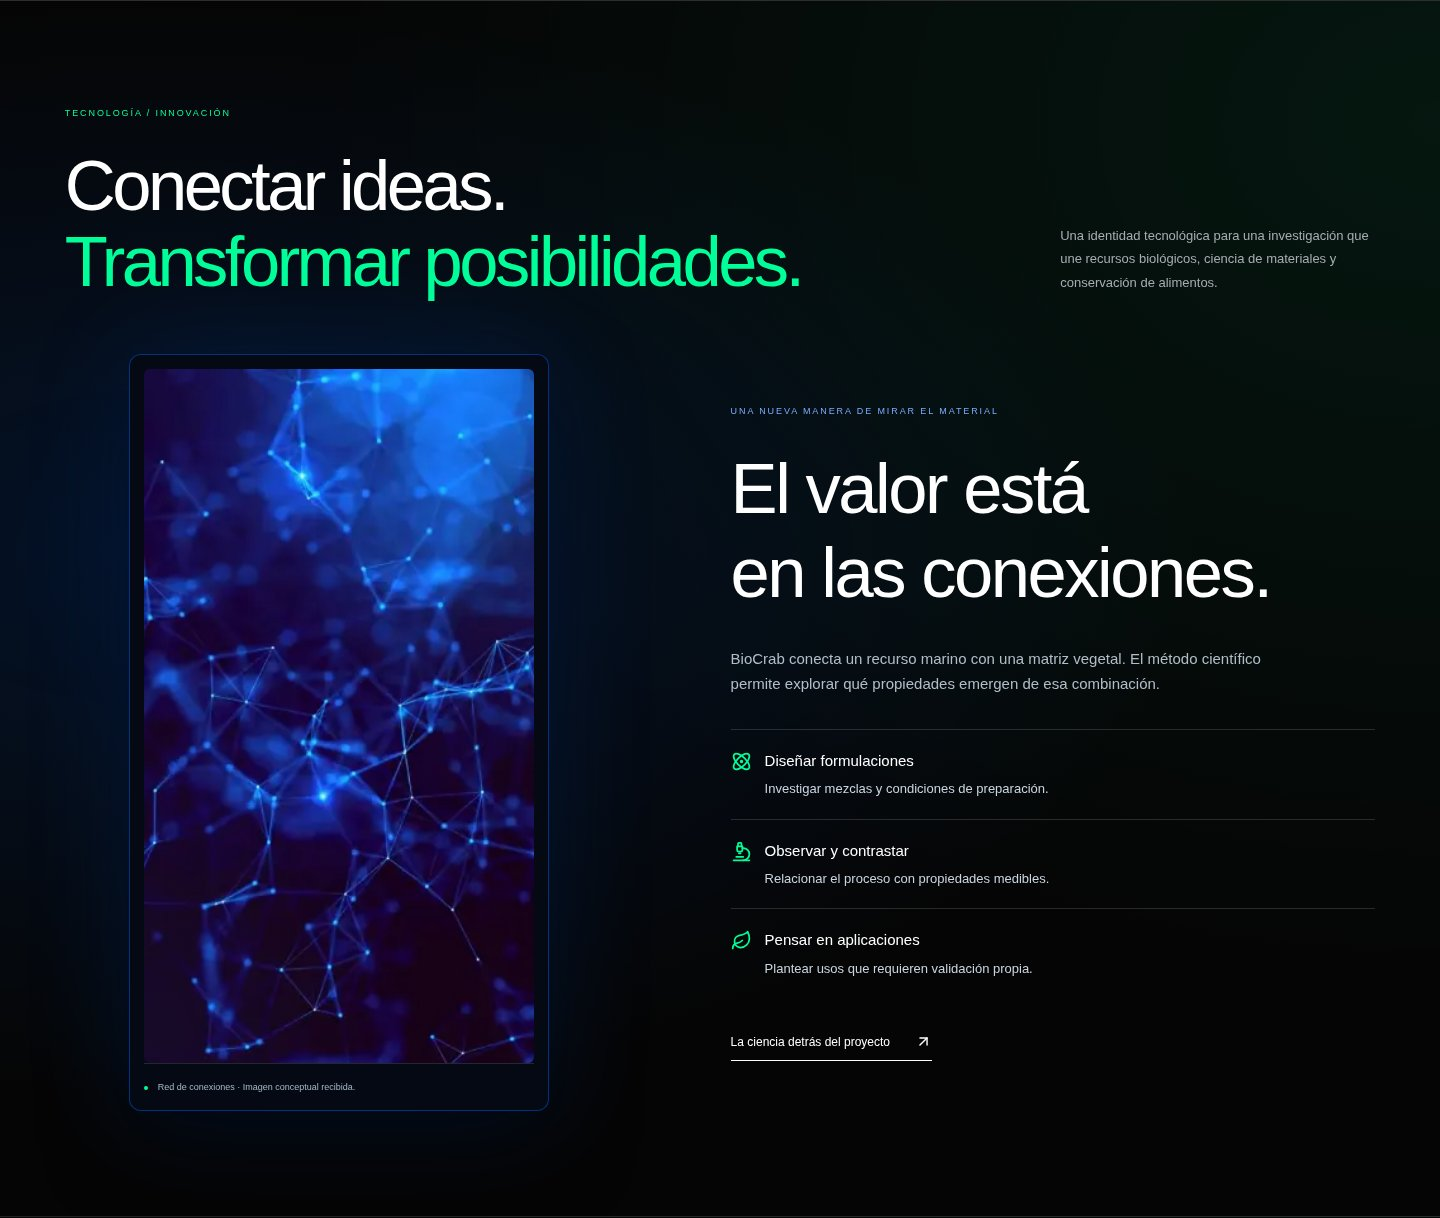
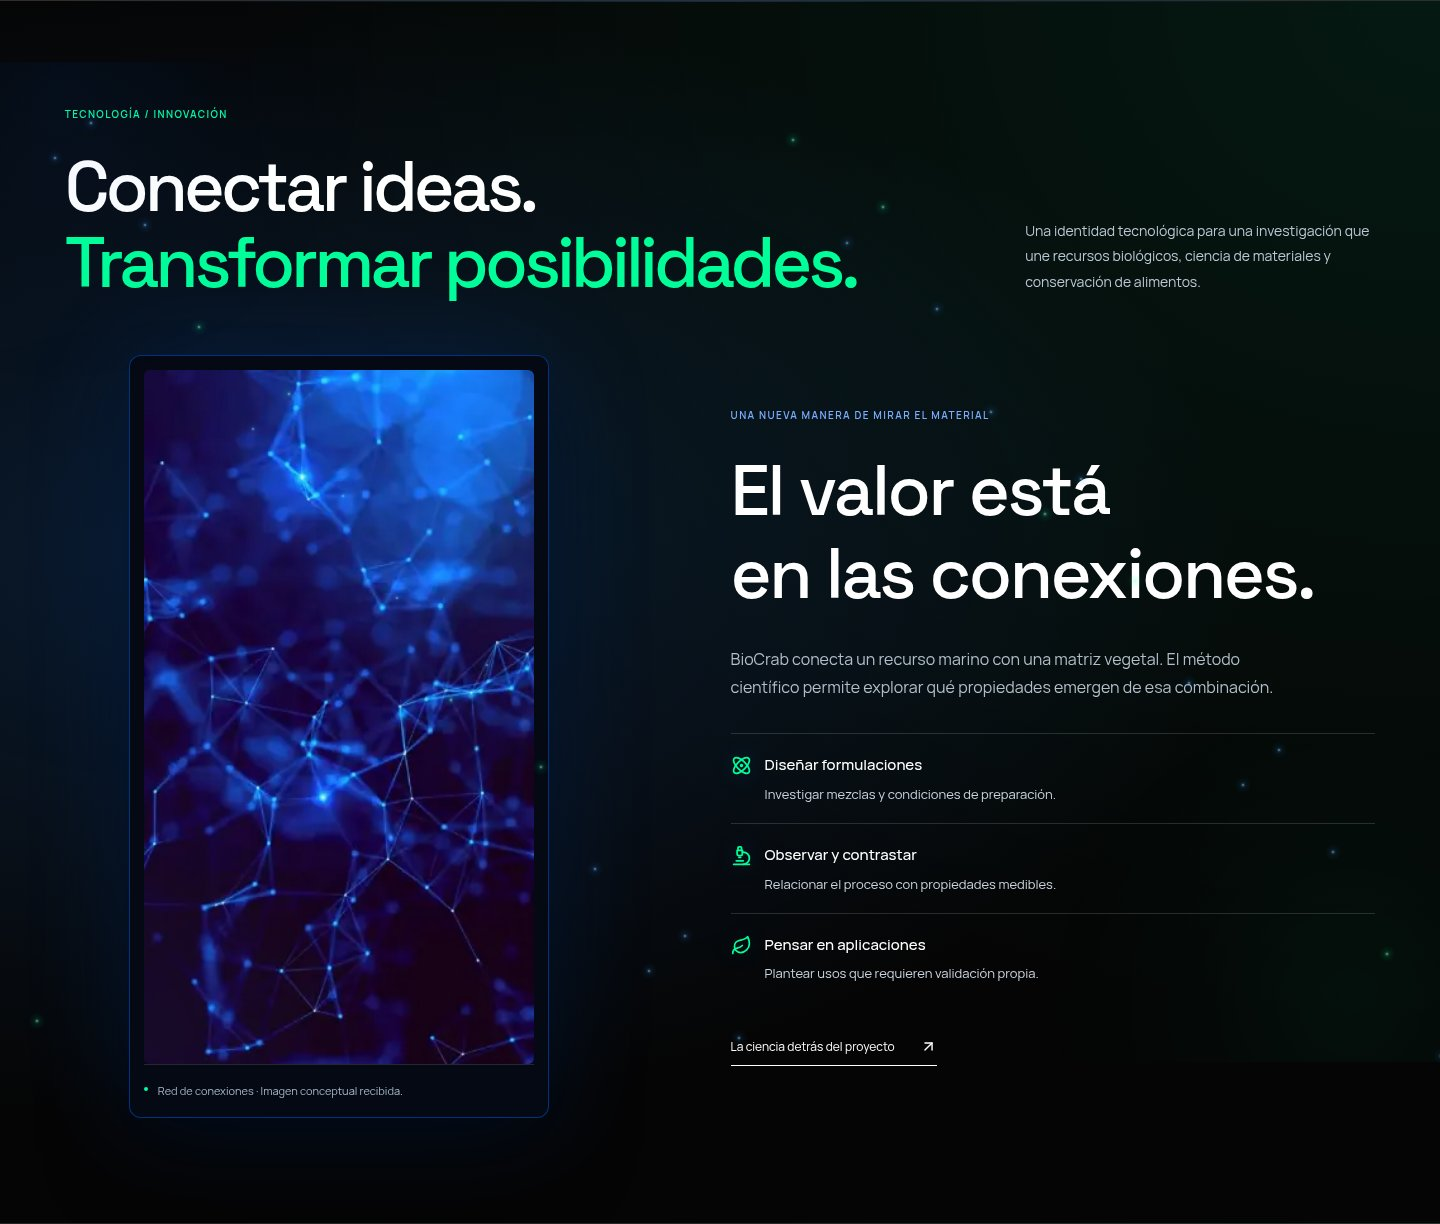
docs: verify cinematic production experience and refresh screenshots

diff --git a/docs/visual-review.md b/docs/visual-review.md
@@ -2,9 +2,9 @@
 
 ## Alcance de la revisión actual
 
-La revisión identificada por `X-BioCrab-Design: pinterest-integrated-v4` incorpora las cinco imágenes exactas del nuevo ZIP y el logo adaptado con autorización del responsable. Las seis fotografías originales del proyecto permanecen en su colección independiente y no se sustituyen por referencias conceptuales.
+La revisión identificada por `X-BioCrab-Design: cinematic-biotech-v5` incorpora las cinco imágenes exactas del nuevo ZIP y el logo adaptado con autorización del responsable. Las seis fotografías originales del proyecto permanecen en su colección independiente y no se sustituyen por referencias conceptuales.
 
-## Elementos que debe cubrir la comprobación actual
+## Elementos comprobados
 
 - Logo PNG adaptado en navbar, hero, estado de carga y footer; favicon PNG generado desde el emblema.
 - Hero con el ADN azul conceptual, sus etiquetas de ambientación y el acceso a la fotografía real de la biopelícula.
@@ -17,7 +17,7 @@ La revisión identificada por `X-BioCrab-Design: pinterest-integrated-v4` incorp
 
 ## Validación local de esta revisión
 
-La compilación actual se comprobó localmente en Chromium contra los servidores de los puertos 3018 y 3019:
+La compilación actual se comprobó localmente en Chromium contra los servidores de los puertos 3021, 3023 y 3024:
 
 - `npm run build` y `npm run typecheck`: completados correctamente.
 - Dieciséis secciones revisadas, con cinco referencias conceptuales en doce ubicaciones y las seis fotografías originales del proyecto.
@@ -27,6 +27,8 @@ La compilación actual se comprobó localmente en Chromium contra los servidores
 - Movimiento del hero, partículas, ambientación de ADN y profundidad de cursor: observado en el navegador, no solo por presencia de código.
 - Axe, reglas WCAG 2 A/AA y 2.1 AA: cero infracciones automáticas en temas oscuro y claro. Se utilizó movimiento reducido para evitar lecturas de contraste durante transiciones; quedaron dos reglas con comprobaciones incompletas. Esto no constituye una certificación integral de accesibilidad.
 
+El sistema cinematográfico incorpora GSAP/ScrollTrigger, Lenis, máscaras por palabras, zoom fotográfico sin recortes, partículas DOM y fuentes locales Manrope/Space Grotesk. Ver [movimiento y rendimiento](cinematic-experience.md).
+
 La regresión del hero se verificó en dos corridas: pausa y movimiento reducido durante la entrada dejan ambas líneas visibles, sin desplazamiento ni desenfoque; reactivar el movimiento también termina correctamente, sin errores JavaScript.
 
 Estos resultados corresponden a la ejecución local de la revisión actual. No demuestran por sí solos que la misma compilación esté activa en Vercel. La integración de recursos se detalla en [integración de referencias](reference-integration.md).
@@ -35,10 +37,11 @@ Estos resultados corresponden a la ejecución local de la revisión actual. No d
 
 URL: <https://biocrab-website.vercel.app/>. Enlace profundo: <https://biocrab-website.vercel.app/#hipotesis>.
 
-El 4 de noviembre de 2026, después del push del commit `c02db4ab0d59ada71541f2face26a9f6b15313eb`, Vercel confirmó el despliegue. Se verificó HTTP 200 y `X-BioCrab-Design: pinterest-integrated-v4` en el dominio público.
+El 5 de noviembre de 2026, después del push del commit `f3ec62e94ee96091c927f860b70483a5f7cb085f`, Vercel confirmó el despliegue. Se verificó HTTP 200 y `X-BioCrab-Design: cinematic-biotech-v5` en el dominio público.
 
 Chromium comprobó 1440 × 1000 y 390 × 844 px:
 
+- Dieciséis escenas y treinta y seis títulos; doce estados distintos observados en partículas y zoom en cada vista. Lenis/GSAP en escritorio y scroll nativo/GSAP en móvil.
 - 37 imágenes decodificadas por vista, con cinco referencias únicas, seis fotos originales y tres apariciones del logo.
 - Imágenes completas mediante `object-fit: contain`; sin placeholders visibles ni desbordamiento horizontal.
 - Cero errores JavaScript o recursos HTTP fallidos durante el recorrido.

diff --git a/README.md b/README.md
@@ -27,7 +27,7 @@ El responsable autorizó conservar el emblema del logo aportado y cambiar su nom
 
 La narrativa recorre problema, propósito, innovación, transformación, investigación, metodología, trayectoria, galería, comparación, aplicaciones, impacto, fruta y equipo. El enlace `#hipotesis` abre la ubicación de la hipótesis dentro de investigación.
 
-La paleta oscura utiliza #050505, #0066FF, #00FF99, #FF3B30 y #FFFFFF; el tema claro adapta el contraste. Las animaciones incluyen máscaras por palabras, entrada escalonada, iluminación, partículas ambientales, Ken Burns y profundidad de cursor. GSAP y ScrollTrigger coordinan las escenas y el parallax de títulos y fotografías. Las imágenes conservan sus bordes: el zoom se limita a una escala inferior a la del marco. Lenis suaviza el scroll de escritorio; los dispositivos táctiles conservan el desplazamiento nativo. Un control de pausa persistente detiene el movimiento continuo; también se respeta la preferencia de movimiento reducido. Los efectos móviles usan recorridos y carga visual menores. Manrope y Space Grotesk se sirven localmente, sin consultar Google Fonts.
+La paleta oscura utiliza #050505, #2389FF, #00FFA3, #FF3B30 y #FFFFFF; el tema claro adapta el contraste. Las animaciones incluyen máscaras por palabras, entrada escalonada, iluminación, partículas ambientales, Ken Burns y profundidad de cursor. GSAP y ScrollTrigger coordinan las escenas y el parallax de títulos y fotografías. Las imágenes conservan sus bordes: el zoom se limita a una escala inferior a la del marco. Lenis suaviza el scroll de escritorio; los dispositivos táctiles conservan el desplazamiento nativo. Un control de pausa persistente detiene el movimiento continuo; también se respeta la preferencia de movimiento reducido. Los efectos móviles usan recorridos y carga visual menores. Manrope y Space Grotesk se sirven localmente, sin consultar Google Fonts.
 
 ## Archivos principales
 
@@ -62,8 +62,8 @@ El comparador utiliza una fotografía real de BioCrab y una ilustración concept
 
 El formulario valida y copia el mensaje en un contexto seguro; no envía ni almacena datos. El canal de contacto y los perfiles del equipo siguen pendientes de confirmación.
 
-URL de producción comunicada por el responsable: <https://biocrab-website.vercel.app/>. Enlace directo solicitado: <https://biocrab-website.vercel.app/#hipotesis>. La integración se publicó y verificó en esa URL el 4 de noviembre de 2026, en escritorio y móvil.
+URL de producción comunicada por el responsable: <https://biocrab-website.vercel.app/>. Enlace directo solicitado: <https://biocrab-website.vercel.app/#hipotesis>. La integración se publicó y verificó en esa URL el 5 de noviembre de 2026, en escritorio y móvil.
 
-El encabezado `X-BioCrab-Design: pinterest-integrated-v4` identifica esta revisión. Se comprobaron el despliegue de Vercel, el encabezado, las imágenes y el enlace profundo. Ver [integración de referencias](docs/reference-integration.md) y [estado de revisión visual](docs/visual-review.md).
+El encabezado `X-BioCrab-Design: cinematic-biotech-v5` identifica la revisión cinematográfica actual. Se comprobaron el despliegue de Vercel, el encabezado, las imágenes y el enlace profundo. Ver [integración de referencias](docs/reference-integration.md) y [estado de revisión visual](docs/visual-review.md).
 
 La ampliación cinematográfica se identifica por `X-BioCrab-Design: cinematic-biotech-v5`. Sus decisiones de rendimiento y comprobaciones se documentan en [experiencia cinematográfica](docs/cinematic-experience.md).

diff --git a/docs/cinematic-experience.md b/docs/cinematic-experience.md
@@ -30,4 +30,16 @@ La medición local de Chromium headless, con renderer gráfico por software ANGL
 
 El valor móvil se aproxima al intervalo de una pantalla de 60 Hz. El ensayo de escritorio durante desplazamiento no sostiene ese intervalo en este entorno. Hubo pausas de planificación también con las animaciones desactivadas. Son muestras breves de una simulación, no mediciones de dispositivos móviles físicos ni garantías de FPS. Los valores completos están en [muestra de rendimiento](performance-sample.json).
 
-El despliegue debe identificarse mediante `cinematic-biotech-v5`; las capturas públicas se actualizarán tras publicarlo.
+## Publicación comprobada
+
+La revisión `f3ec62e` se publicó en <https://biocrab-website.vercel.app/> con el encabezado `cinematic-biotech-v5`. El navegador confirmó, en escritorio y móvil:
+
+- Dieciséis escenas, treinta y seis títulos y los motores Lenis/GSAP o scroll nativo/GSAP correspondientes.
+- Treinta partículas visibles en escritorio y catorce en móvil, con doce estados de movimiento distintos en cada muestra; el zoom fotográfico también cambió doce veces.
+- Treinta y siete imágenes decodificadas, las cinco referencias, seis fotografías originales y el logo en tres ubicaciones.
+- Favicon válido y enlace `#hipotesis` abierto y visible.
+- Cero errores JavaScript, recursos fallidos o desbordamiento en la revisión final.
+
+Axe no encontró infracciones automáticas WCAG A/AA en ambos temas con movimiento reducido; quedaron dos comprobaciones incompletas por tema. Esto no sustituye una evaluación integral de accesibilidad.
+
+Evidencia: [informe de producción](production-verification.json), [movimiento](motion-verification.json), [escritorio](previews/desktop.png), [móvil](previews/mobile.png) y [galería](previews/galeria-desktop.jpg). Las capturas se tomaron directamente del dominio público después del despliegue.

diff --git a/docs/reference-integration.md b/docs/reference-integration.md
@@ -22,16 +22,16 @@ El responsable autorizó preservar el emblema del archivo de logo aportado y cam
 
 - Producción comunicada: <https://biocrab-website.vercel.app/>.
 - Enlace profundo: <https://biocrab-website.vercel.app/#hipotesis>.
-- Encabezado de esta revisión: `X-BioCrab-Design: pinterest-integrated-v4`.
+- Encabezado de esta revisión: `X-BioCrab-Design: cinematic-biotech-v5`.
 
 El destino `#hipotesis` se comprobó abriendo la URL pública en escritorio y móvil. La alineación inicial contempla el contenido servido en streaming, y la hipótesis queda abierta y visible.
 
 ## Verificación de producción completada
 
-El 4 de noviembre de 2026 se comprobó la publicación del commit `c02db4ab0d59ada71541f2face26a9f6b15313eb`:
+El 5 de noviembre de 2026 se comprobó la publicación del commit `f3ec62e94ee96091c927f860b70483a5f7cb085f`:
 
 - Vercel confirmó el despliegue de `biocrab-website`.
-- La URL pública respondió HTTP 200 con `pinterest-integrated-v4`.
+- La URL pública respondió HTTP 200 con `cinematic-biotech-v5`.
 - Las cinco referencias y el logo respondieron HTTP 200; sus bytes coinciden con los del repositorio. Los cinco PNG de referencia también coinciden con las fuentes del ZIP.
 - Chromium decodificó 37 imágenes por vista en 1440 y 390 px: cinco referencias únicas, seis fotografías originales y el logo en navbar, hero y footer.
 - El favicon PNG respondió HTTP 200. Las fotografías usan `object-fit: contain`; no se encontraron placeholders visibles, errores JavaScript, recursos fallidos ni desbordamiento horizontal.

diff --git a/public/images/README.md b/public/images/README.md
@@ -39,4 +39,4 @@ La adaptación del nombre no supone modificar las fotografías experimentales. L
 
 ## Publicación y comprobaciones
 
-La publicación se verificó el 4 de noviembre de 2026 en <https://biocrab-website.vercel.app/> y utiliza `X-BioCrab-Design: pinterest-integrated-v4`. Las cinco referencias y el logo responden HTTP 200 y conservan los mismos bytes publicados en el repositorio. Las seis fotografías originales también se decodificaron correctamente en escritorio y móvil. Ver `docs/visual-review.md`.
+La publicación se verificó el 5 de noviembre de 2026 en <https://biocrab-website.vercel.app/> y utiliza `X-BioCrab-Design: cinematic-biotech-v5`. Las cinco referencias y el logo responden HTTP 200 y conservan los mismos bytes publicados en el repositorio. Las seis fotografías originales también se decodificaron correctamente en escritorio y móvil. Ver `docs/visual-review.md`.
